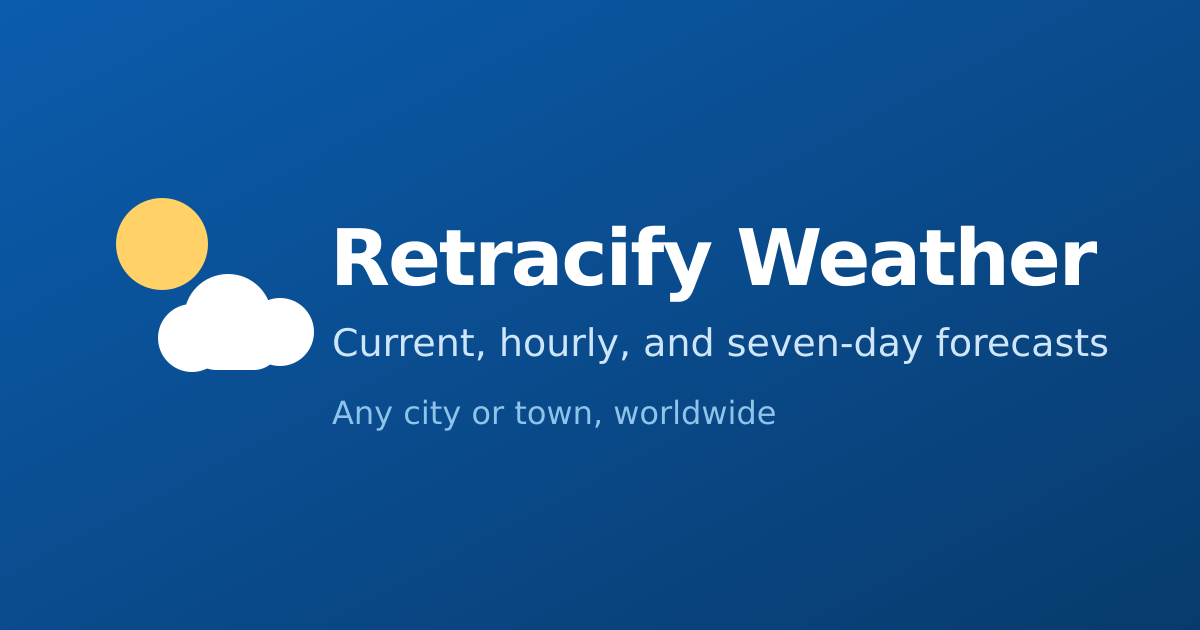
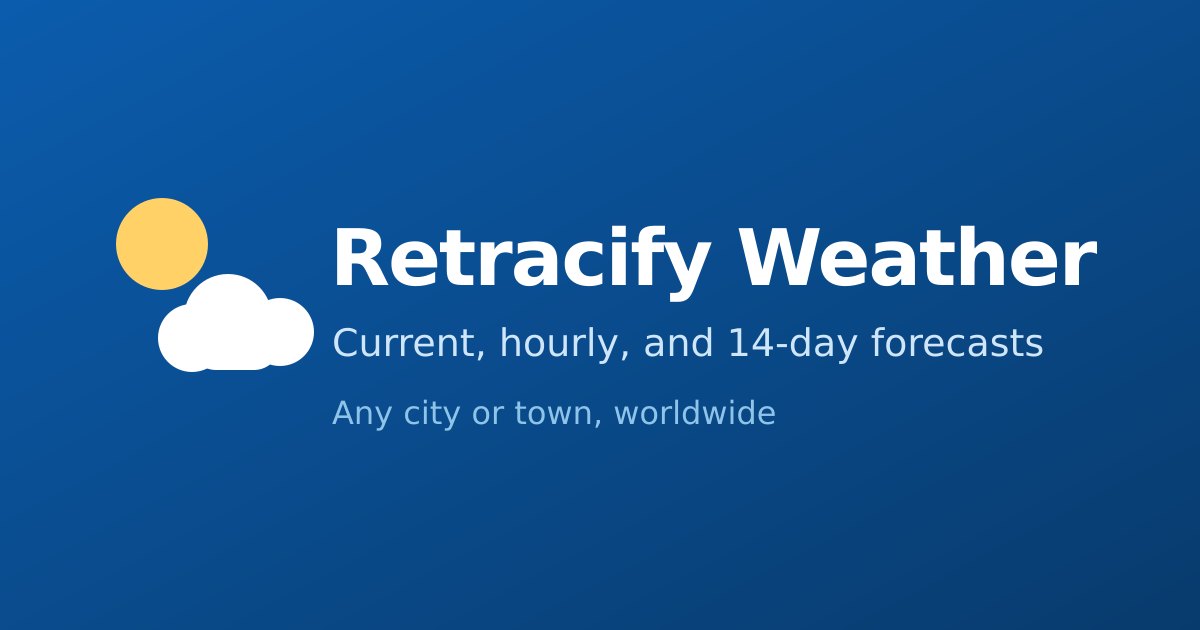
Add expandable 14-day forecast
Fetch 14 daily periods, which still counts as one Visual Crossing record.
Show the first week by default and reveal the extended week on demand with
a less-certain note. Update metadata, OG image, documentation, and tests.

Changed region(s): [[0.5858, 0.5127, 0.925, 0.573]]

diff --git a/src/components/DailyForecast.tsx b/src/components/DailyForecast.tsx
@@ -1,4 +1,8 @@
-import type { Forecast } from '../../shared/types';
+import { useState } from 'react';
+import type {
+  DailyForecast as DailyForecastDay,
+  Forecast,
+} from '../../shared/types';
 import { FORECAST_DAYS } from '../../shared/config';
 import {
   formatDayDate,
@@ -9,18 +13,72 @@ import {
 } from '../lib/format';
 import { WeatherIcon } from './WeatherIcon';
 
+const DEFAULT_VISIBLE_DAYS = 7;
+
 interface DailyForecastProps {
   forecast: Forecast;
+  /** Start with the extended week expanded. Useful for deep links and tests. */
+  defaultExpanded?: boolean;
 }
 
-export function DailyForecast({ forecast }: DailyForecastProps) {
+function DayRow({ day, index }: { day: DailyForecastDay; index: number }) {
+  const hasProbability = day.precipitationProbability !== null;
+  const precipitation = hasProbability
+    ? formatPercent(day.precipitationProbability)
+    : formatPrecipitation(day.precipitationMm);
+
+  return (
+    <li className="day-row">
+      <div className="day-date">
+        <time dateTime={day.date}>{formatDayLabel(day.date, index)}</time>
+        <span>{formatDayDate(day.date)}</span>
+      </div>
+
+      <div className="day-condition">
+        <WeatherIcon condition={day.condition.key} size="small" />
+        <span>{day.condition.label}</span>
+      </div>
+
+      <div className="day-precip">
+        <span className="sr-only">
+          {hasProbability ? 'Chance of precipitation ' : 'Precipitation '}
+        </span>
+        {precipitation}
+      </div>
+
+      <div
+        className="day-temps"
+        aria-label={`High ${formatTemperatureShort(day.highC)}, low ${formatTemperatureShort(day.lowC)}`}
+      >
+        <span>
+          <span className="sr-only">High </span>
+          {formatTemperatureShort(day.highC)}
+        </span>
+        <span className="low">
+          <span className="sr-only">Low </span>
+          {formatTemperatureShort(day.lowC)}
+        </span>
+      </div>
+    </li>
+  );
+}
+
+export function DailyForecast({
+  forecast,
+  defaultExpanded = false,
+}: DailyForecastProps) {
   const { daily } = forecast;
+  const [expanded, setExpanded] = useState(defaultExpanded);
+  const firstWeek = daily.slice(0, DEFAULT_VISIBLE_DAYS);
+  const extended = daily.slice(DEFAULT_VISIBLE_DAYS, FORECAST_DAYS);
+  const canExpand = extended.length > 0;
+  const visibleDays = expanded ? daily.length : firstWeek.length;
 
   return (
     <section className="forecast-section" aria-labelledby="daily-heading">
       <div className="section-heading">
         <div>
-          <p className="eyebrow">{FORECAST_DAYS}-day forecast</p>
+          <p className="eyebrow">{visibleDays}-day forecast</p>
           <h2 id="daily-heading">The days ahead</h2>
         </div>
         <p className="section-note">High / low · °C</p>
@@ -28,54 +86,50 @@ export function DailyForecast({ forecast }: DailyForecastProps) {
 
       {daily.length === 0 ? (
         <p className="inline-notice">
-          {FORECAST_DAYS}-day forecast data is unavailable for this location.
+          Forecast data is unavailable for this location.
         </p>
       ) : (
-        <ul className="daily-list">
-          {daily.map((day, index) => {
-            const hasProbability = day.precipitationProbability !== null;
-            const precipitation = hasProbability
-              ? formatPercent(day.precipitationProbability)
-              : formatPrecipitation(day.precipitationMm);
+        <>
+          <ul className="daily-list">
+            {firstWeek.map((day, index) => (
+              <DayRow day={day} index={index} key={day.date} />
+            ))}
+          </ul>
 
-            return (
-              <li className="day-row" key={day.date}>
-                <div className="day-date">
-                  <time dateTime={day.date}>{formatDayLabel(day.date, index)}</time>
-                  <span>{formatDayDate(day.date)}</span>
-                </div>
+          {expanded && canExpand && (
+            <div className="extended-forecast" id="extended-daily">
+              <p className="extended-heading">
+                Next week <span>Less certain</span>
+              </p>
+              <ul
+                className="daily-list"
+                aria-label="Extended forecast, days 8 to 14"
+              >
+                {extended.map((day, index) => (
+                  <DayRow
+                    day={day}
+                    index={index + DEFAULT_VISIBLE_DAYS}
+                    key={day.date}
+                  />
+                ))}
+              </ul>
+            </div>
+          )}
 
-                <div className="day-condition">
-                  <WeatherIcon condition={day.condition.key} size="small" />
-                  <span>{day.condition.label}</span>
-                </div>
-
-                <div className="day-precip">
-                  <span className="sr-only">
-                    {hasProbability
-                      ? 'Chance of precipitation '
-                      : 'Precipitation '}
-                  </span>
-                  {precipitation}
-                </div>
-
-                <div
-                  className="day-temps"
-                  aria-label={`High ${formatTemperatureShort(day.highC)}, low ${formatTemperatureShort(day.lowC)}`}
-                >
-                  <span>
-                    <span className="sr-only">High </span>
-                    {formatTemperatureShort(day.highC)}
-                  </span>
-                  <span className="low">
-                    <span className="sr-only">Low </span>
-                    {formatTemperatureShort(day.lowC)}
-                  </span>
-                </div>
-              </li>
-            );
-          })}
-        </ul>
+          {canExpand && (
+            <button
+              type="button"
+              className="text-button daily-toggle"
+              aria-expanded={expanded}
+              aria-controls={expanded ? 'extended-daily' : undefined}
+              onClick={() => setExpanded((value) => !value)}
+            >
+              {expanded
+                ? 'Show 7-day forecast'
+                : `Show ${FORECAST_DAYS}-day forecast`}
+            </button>
+          )}
+        </>
       )}
     </section>
   );

diff --git a/index.html b/index.html
@@ -5,7 +5,7 @@
     <meta name="viewport" content="width=device-width, initial-scale=1.0" />
     <meta
       name="description"
-      content="Current conditions, hourly weather, and a seven-day forecast for any city or town."
+      content="Current conditions, hourly weather, and a 14-day forecast for any city or town."
     />
     <meta name="theme-color" content="#0b5cad" />
     <meta name="color-scheme" content="light" />
@@ -19,7 +19,7 @@
     <meta property="og:title" content="Retracify Weather" />
     <meta
       property="og:description"
-      content="Current conditions, hourly weather, and a seven-day forecast for any city or town."
+      content="Current conditions, hourly weather, and a 14-day forecast for any city or town."
     />
     <meta property="og:url" content="%SITE_URL%/" />
     <meta property="og:image" content="%SITE_URL%/og-image.png" />
@@ -29,7 +29,7 @@
     <meta name="twitter:title" content="Retracify Weather" />
     <meta
       name="twitter:description"
-      content="Current conditions, hourly weather, and a seven-day forecast for any city or town."
+      content="Current conditions, hourly weather, and a 14-day forecast for any city or town."
     />
     <meta name="twitter:image" content="%SITE_URL%/og-image.png" />
 

diff --git a/src/components/forecast.test.tsx b/src/components/forecast.test.tsx
@@ -41,9 +41,22 @@ describe('forecast components', () => {
     expect(html).toContain('Next 24 hours');
     expect(html).toContain('Today');
     expect((html.match(/class="day-row"/g) ?? [])).toHaveLength(7);
+    expect(html).toContain('Show 14-day forecast');
     expect(html).toContain('Weather Data Provided by');
     expect(html).toContain('GeoNames');
     expect(html).toContain('aria-hidden="true"');
+  });
+
+  it('expands to the extended 14-day forecast on request', () => {
+    const forecast = makeForecast();
+    const html = renderToStaticMarkup(
+      <DailyForecast forecast={forecast} defaultExpanded />,
+    );
+
+    expect((html.match(/class="day-row"/g) ?? [])).toHaveLength(14);
+    expect(html).toContain('Next week');
+    expect(html).toContain('Less certain');
+    expect(html).toContain('Show 7-day forecast');
   });
 
   it('renders a clear fallback when current conditions are missing', () => {

diff --git a/functions/_lib/providers/visualCrossing.test.ts b/functions/_lib/providers/visualCrossing.test.ts
@@ -25,7 +25,7 @@ describe('getLocalDateRange', () => {
 
     expect(range).toEqual({
       start: '2026-10-22',
-      end: '2026-10-28',
+      end: '2026-11-04',
     });
   });
 
@@ -36,13 +36,13 @@ describe('getLocalDateRange', () => {
 });
 
 describe('buildForecastUrl', () => {
-  it('requests seven local days in metric units', () => {
+  it('requests the configured local window in metric units', () => {
     const url = new URL(
       buildForecastUrl(TEST_PLACE, 'test-key', TEST_NOW),
     );
 
     expect(url.pathname).toContain(
-      '/47.0461,-67.7418/2026-10-23/2026-10-29',
+      '/47.0461,-67.7418/2026-10-23/2026-11-05',
     );
     expect(url.searchParams.get('unitGroup')).toBe('metric');
     expect(url.searchParams.get('include')).toBe('current,days,hours');

diff --git a/src/styles.css b/src/styles.css
@@ -626,6 +626,38 @@ a:hover {
   list-style: none;
 }
 
+.extended-forecast {
+  margin-top: 16px;
+}
+
+.extended-heading {
+  display: flex;
+  flex-wrap: wrap;
+  align-items: baseline;
+  justify-content: space-between;
+  gap: 4px 12px;
+  margin: 0 0 6px;
+  color: var(--accent);
+  font-size: 0.73rem;
+  font-weight: 750;
+  letter-spacing: 0.11em;
+  text-transform: uppercase;
+}
+
+.extended-heading span {
+  color: var(--muted);
+  font-size: 0.75rem;
+  font-weight: 550;
+  letter-spacing: normal;
+  text-transform: none;
+}
+
+.daily-toggle {
+  display: block;
+  margin: 10px auto 0;
+  text-align: center;
+}
+
 .day-row {
   display: grid;
   grid-template-areas:

diff --git a/shared/config.ts b/shared/config.ts
@@ -1,9 +1,10 @@
 /**
- * Number of daily forecast periods requested and displayed.
+ * Number of daily forecast periods requested from the provider.
  * Visual Crossing supports up to 15 days; a request of this size still counts
- * as a single forecast record on the free plan.
+ * as a single forecast record on the free plan. The UI shows the first week by
+ * default and reveals the remaining days on demand.
  */
-export const FORECAST_DAYS = 7;
+export const FORECAST_DAYS = 14;
 
 /**
  * Public origin used for canonical URLs, Open Graph tags, the sitemap, and

diff --git a/functions/_lib/dates.test.ts b/functions/_lib/dates.test.ts
@@ -2,7 +2,7 @@ import { describe, expect, it } from 'vitest';
 import { getLocalDateRange } from './dates.ts';
 
 describe('getLocalDateRange', () => {
-  it('returns a seven-day window in the location timezone', () => {
+  it('returns the requested multi-day window in the location timezone', () => {
     expect(
       getLocalDateRange(
         'America/Moncton',

diff --git a/README.md b/README.md
@@ -1,7 +1,8 @@
 # Retracify Weather
 
 A lightweight, mobile-friendly weather website with current conditions, hourly
-forecasts, a seven-day forecast, and global city/town search.
+forecasts, a seven-day forecast that expands to 14 days, and global city/town
+search.
 
 The project is designed as a **static React frontend** with a small serverless
 API layer for provider credential protection, caching, and response
@@ -14,7 +15,8 @@ normalization. There is no database, account system, or persistent user data.
 - Next 24 hours of weather with temperature, condition, precipitation
   probability, and wind.
 - Seven-day forecast with daily high/low, condition, and precipitation
-  probability.
+  probability. A **Show 14-day forecast** toggle reveals the extended week,
+  which is labeled as less certain.
 - Debounced location search with region/country disambiguation and keyboard
   support.
 - Opt-in **Use my location** button that resolves coordinates to the nearest
@@ -47,7 +49,8 @@ Runtime dependencies are limited to `react` and `react-dom`.
 - Free plan used for this release, with commercial use permitted.
 - Free plan limits: **1,000 records/day** and **one concurrent request**.
 - A forecast query of up to 15 days counts as one record, including hourly
-  data. This application requests seven days and caches repeated requests.
+  data. This application requests 14 days and caches repeated requests, so the
+  extended view does not consume extra provider records.
 - The API key is **server-side only** in the Pages Function. It is never part of
   the client bundle.
 - Attribution: “Weather Data Provided by Visual Crossing” with a link.
@@ -97,7 +100,8 @@ without rewriting React components.
   - Returns up to eight populated places, deduplicated by GeoNames ID.
 - `GET /api/forecast?placeId=6621033`
   - Resolves the place ID through GeoNames, then returns normalized current,
-    hourly, and seven-day forecast data.
+    hourly, and 14-day forecast data. The UI shows the first week by default and
+    reveals the remaining days on demand.
   - The API accepts only numeric GeoNames IDs. Coordinates are not accepted, so
     arbitrary coordinate pairs cannot bypass the cache and consume provider
     records.
@@ -357,8 +361,10 @@ amount instead without changing components.
   the committed dependency set; repeat the checks before major UI changes.
 - No service worker, offline mode, saved locations, advertising, or Fahrenheit
   toggle is included in the first release.
-- The seven-day window follows the selected location’s local date, not the
+- The 14-day window follows the selected location’s local date, not the
   visitor’s device timezone.
+- Forecast accuracy generally decreases beyond seven days. Extended days are
+  clearly labeled and should be treated as guidance rather than certainty.
 
 ## License
 
